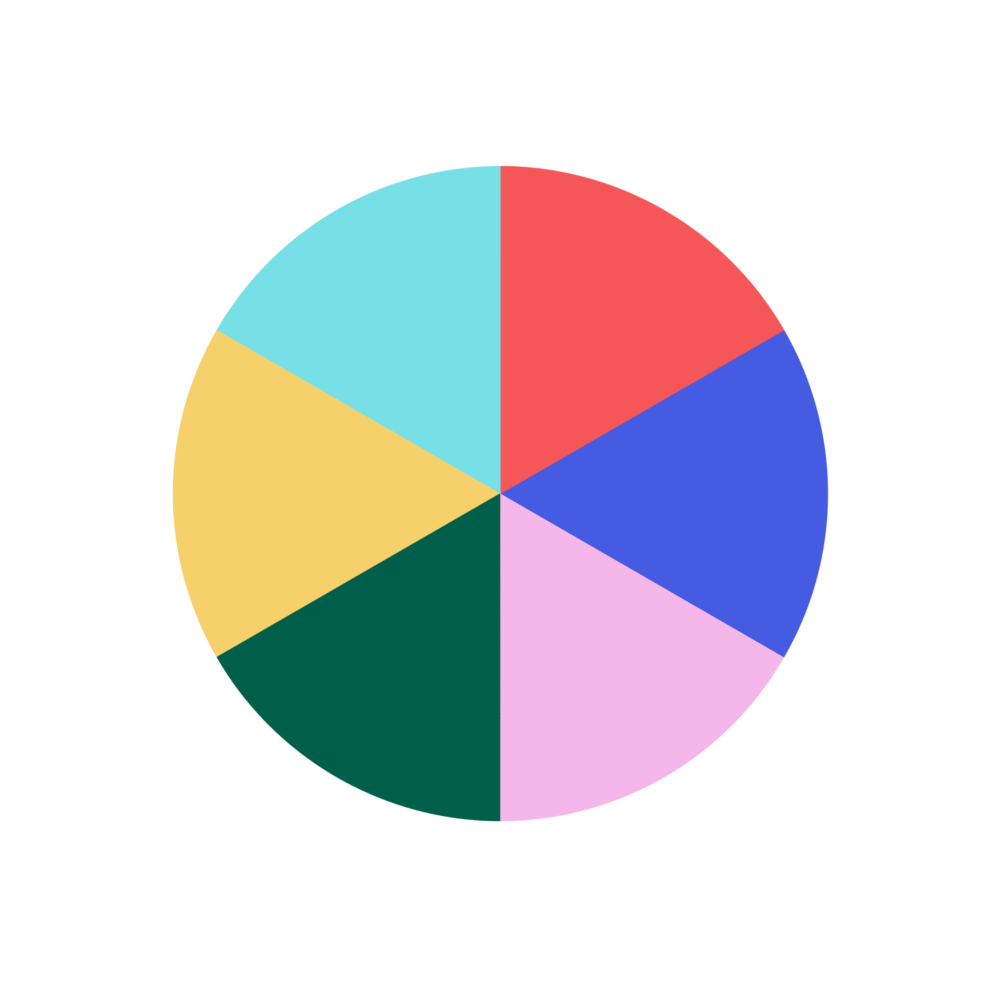
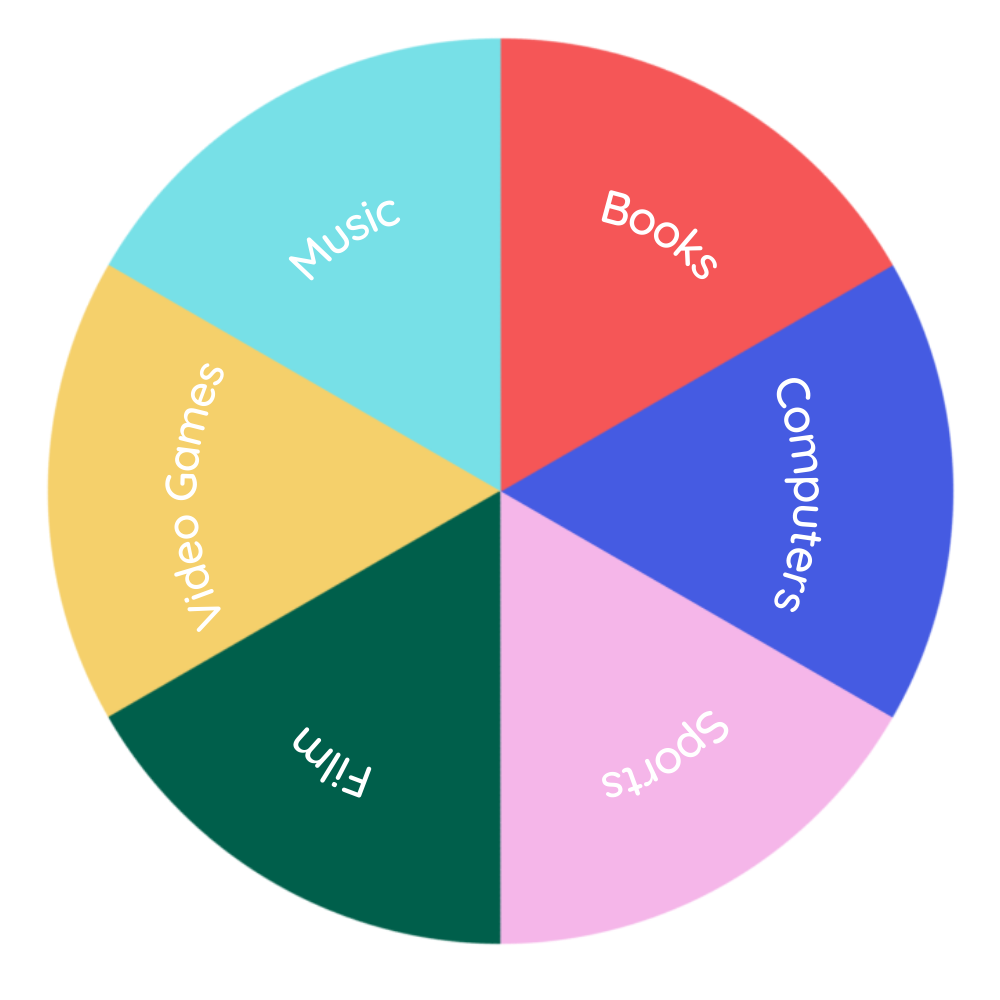
added names on Wheel + CSS changes

diff --git a/src/pages/Host/index.js b/src/pages/Host/index.js
@@ -88,7 +88,7 @@ export default function Host() {
   //   console.log("Being Redirected");
     
   // }
-
+ 
   return (
     <>
       <h1 className='display-1 text-center mb-4'>Create a game !</h1>
@@ -96,22 +96,21 @@ export default function Host() {
           <Container>
             <Row>
               { button ? 
-              <Col className='d-flex flex-column'>
-                <Form className='d-flex justify-content-end'>
-                  <Form.Group className="mb-3 w-50" controlId="formCreateRoom">
-                    <Form.Control type="text" className="p-3" placeholder="Type a room number" onChange={(event) => { setRoom(event.target.value); }} />
-                    <Button className="primary-btn mt-3" onClick={joinRoom}>Create Room</Button>
-                  </Form.Group>                
-                </Form>  
-                <div className='d-flex justify-content-end'>
-                  <h3 className='fs-4'>Available Rooms: </h3> 
-                  {renderAllRooms()}
-                </div>                
-              </Col>
-              : 
-              <Col>
-                <h3 className='fs-4'>Created Room: {room}</h3>
-              </Col>}
+                <Col className='d-flex flex-column'>
+                  <Form className='d-flex justify-content-end'>
+                    <Form.Group className="mb-3 w-50" controlId="formCreateRoom">
+                      <Form.Control type="text" className="p-3" placeholder="Type a room number" onChange={(event) => { setRoom(event.target.value); }} />
+                      <Button className="primary-btn mt-3" onClick={joinRoom}>Create Room</Button>
+                    </Form.Group>                
+                  </Form>  
+                  <div className='d-flex justify-content-end'>
+                    <h3 className='fs-4'>Available Rooms: </h3> 
+                    {renderAllRooms()}
+                  </div>                
+                </Col>
+              : <Col>
+                  <h3 className='fs-4'>Created Room: {room}</h3>
+                </Col>}
 
               <Col>
                 <Form>

diff --git a/src/pages/Client/index.js b/src/pages/Client/index.js
@@ -2,7 +2,7 @@ import React, { useEffect, useState } from 'react';
 import { useNavigate } from 'react-router-dom';
 import io from 'socket.io-client';
 import Button from 'react-bootstrap/Button';
-import Col from "react-bootstrap/Col";
+import Card from "react-bootstrap/Card";
 import Container from 'react-bootstrap/Container';
 import Form from 'react-bootstrap/Form';
 import Row from "react-bootstrap/Row";
@@ -137,16 +137,22 @@ export default function Client() {
           <h3 className='fs-4'> Joined Room: {room}</h3>
         </Container>}
 
-      <Container className='d-flex flex-column justify-content-center'>
-        <h3 className='fs-4'>Available Rooms: </h3> 
-        {renderAllRooms()} 
       
-        <h3 className='fs-4'>Users {users}</h3>
-
-        <h3 className='fs-4'>All Players {players.length}</h3>      
-   
-        <h3 className='fs-4'>Message: {messageReceived}</h3>
-      </Container>
+        <Container className="d-flex justify-content-center align-items-center">
+          <Card className="card-box border w-50 my-5 rounded-4 p-3">
+            <Card.Body>
+              <Row>                
+                <Card.Text className="card-text ms-5 my-3 display-4">
+                  <h3 className='fs-4'>Available Rooms </h3> 
+                    {renderAllRooms()}
+                  <h3 className='fs-4'>Users {users}</h3>
+                  <h3 className='fs-4'>All Players {players.length}</h3>
+                  <h3 className='fs-4'>Message {messageReceived}</h3>
+                </Card.Text>
+              </Row>
+            </Card.Body>
+          </Card>
+        </Container>        
     </>
   )
 }

diff --git a/src/pages/Quiz/index.js b/src/pages/Quiz/index.js
@@ -1,13 +1,13 @@
 import React, { useEffect, useState } from "react";
 import { useLocation } from 'react-router-dom';
+import Confetti from "react-confetti";
 import axios from "axios";
+import { QuizCard, Timer, Loading } from "../../components/index";
 import Card from "react-bootstrap/Card";
 import Col from "react-bootstrap/Col";
 import Container from "react-bootstrap/Container";
 import Row from "react-bootstrap/Row";
 import "./Quiz.css";
-import { QuizCard, Timer, Loading } from "../../components/index";
-import Confetti from "react-confetti";
 
 function Quiz() {
   const [questions, setQuestions] = useState([
@@ -67,7 +67,7 @@ function Quiz() {
               <Card.Body>
                 <Row className="text-center">
                   <Card.Title className="display-3">Score</Card.Title>
-                  <Card.Text className="card-text mb-3 display-3">
+                  <Card.Text className="card-text mb-3 display-4">
                     {score}/{questions.length}
                   </Card.Text>
                 </Row>

diff --git a/src/App.js b/src/App.js
@@ -3,6 +3,7 @@ import "bootstrap/dist/css/bootstrap.min.css";
 import { Routes, Route, useNavigate } from "react-router-dom";
 import { Home, Host, Client, Quiz, SinglePlayer } from "./pages";
 import logo from "./images/logo.png";
+// import logo3 from "./images/logo3.png";
 import Container from "react-bootstrap/Container";
 
 function App() {
@@ -13,13 +14,18 @@ function App() {
   return (
     <Container className="App">
       <header className="App-header">
-        <div className="d-flex pointer w-25">
+        <div className="d-flex logo-box pointer w-25">
           <img
             src={logo}
             alt="logo"
             className="w-75"
             onClick={() => navigate("/")}
           />
+          {/* <img 
+            src={logo3}
+            alt='animation-roulette'
+            className="animLogo"
+          /> */}
         </div>
 
         <Routes>

diff --git a/src/components/Input/index.js b/src/components/Input/index.js
@@ -33,8 +33,8 @@ export default function Input() {
         <>
             <Container className="w-50">
                 <Form onSubmit={handleSubmit} className="d-flex justify-content-center flex-column">
-                    <Row className='mb-5 text-center'>
-                            <h2 className='mb-5'>Spin the Wheel to get your theme!</h2>   
+                    <Row className='mt-3 text-center'>
+                            <h2 className='mb-3'>Spin the Wheel to get your theme!</h2>   
                             <Wheel setTheme={setTheme} />
                     </Row>
                     <Form.Group className="mb-3" controlId="formInputText">

diff --git a/src/index.css b/src/index.css
@@ -40,3 +40,35 @@ h1, h2 {
   cursor: pointer;
 }
 
+/* .animLogo{
+  width: 54px;
+  height: 54px;
+}
+
+.animLogo::after{
+  z-index: -1;
+  animation: spinLogo 50s linear infinite;
+  content: '';
+  background: url("./images/logo3.png") no-repeat center;
+  background-attachment: fixed;
+  min-height: 54px;
+  background-size: cover;
+  position: absolute;
+  left: -5vw;
+  top: -5vw;
+  width: 100%;
+  height: 100%; 
+}
+
+@keyframes spinLogo
+{  
+0%   {-webkit-transform: rotate(0deg); }  
+100% {-webkit-transform: rotate(360deg);}  
+} */
+
+/* .logo-box{
+  width: 250px; 
+  height: 150px; 
+  line-height: 100px; 
+  text-align: center;
+} */

diff --git a/src/components/Wheel/index.js b/src/components/Wheel/index.js
@@ -76,7 +76,7 @@ const Wheel = ({setTheme}) => {
         <>
             <Container className='d-flex justify-content-center flex-column mainbox m-5'>
               <Row className="d-flex justify-content-center">
-                  <Button className="primary-btn w-25" onClick={Rotate}>Spin</Button>
+                  <Button className="primary-btn mb-5 w-25" onClick={Rotate}>Spin</Button>
               </Row>
               <Row >              
                   <img className="gear" src={roulette} alt="gear" style={{ transform: `rotate(${rotation}deg`}}/>

diff --git a/src/components/Wheel/Wheel.css b/src/components/Wheel/Wheel.css
@@ -12,7 +12,7 @@
     background: url('../../images/arrow.png') no-repeat;
     background-size: 50px;
     right: 225px;
-    top: 20%;
+    top: 15%;
     transform: translateY(-50%);
 }
 
@@ -22,6 +22,6 @@
     position: relative;
     font-weight: bold;
     border-radius: 50%;
-    border: 1px solid transparent;
+    /* border: 10px solid white; */
     overflow: hidden;
 } 

diff --git a/src/pages/Home/index.js b/src/pages/Home/index.js
@@ -40,7 +40,7 @@ export default function Home() {
       </Container>
 
       <Container>
-        <h1 className="d-flex justify-content-center display-4 my-5">Will you beat them?</h1>
+        <h1 className="d-flex justify-content-center display-4 my-3">Will you beat them?</h1>
       </Container>
      
       <Container className="w-50 my-5 pb-5">

diff --git a/src/components/Leaderboard/index.js b/src/components/Leaderboard/index.js
@@ -25,7 +25,7 @@ export default function Leaderboard() {
   return (
     <>
       <div className="d-flex justify-content-center pt-5">
-        <h2 className="display-5">Top 5 Players</h2>
+        <h2 className="display-5">Top Players</h2>
       </div>
       <div className="p-5">
         <Bar
